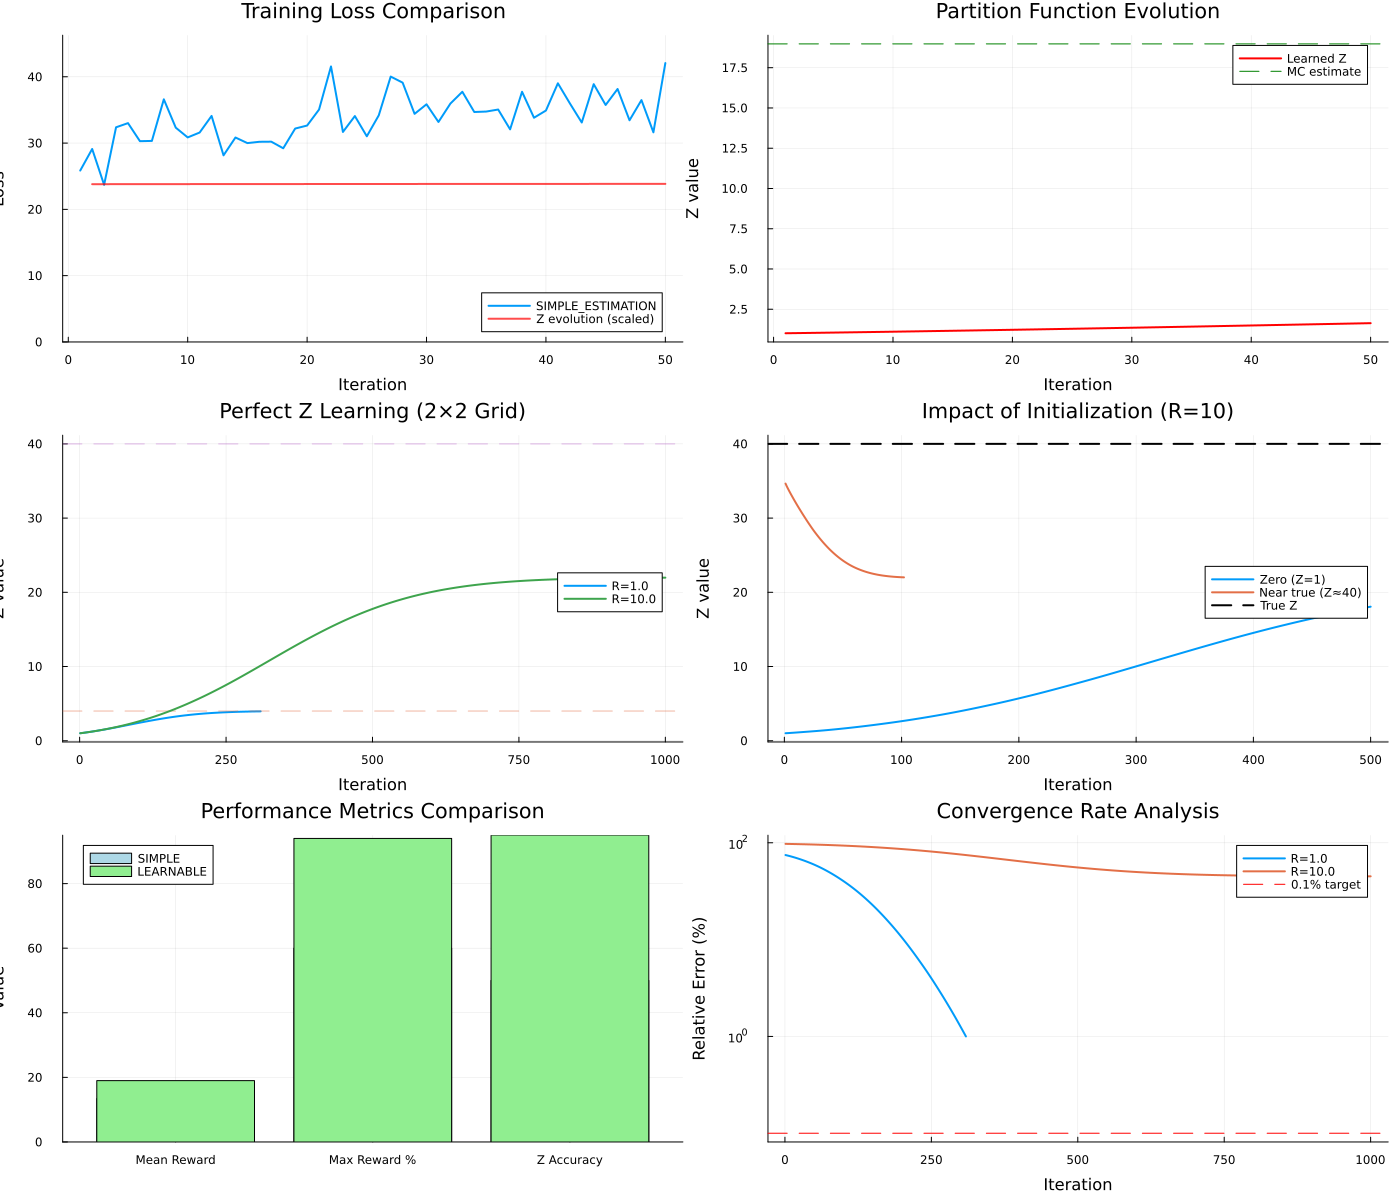
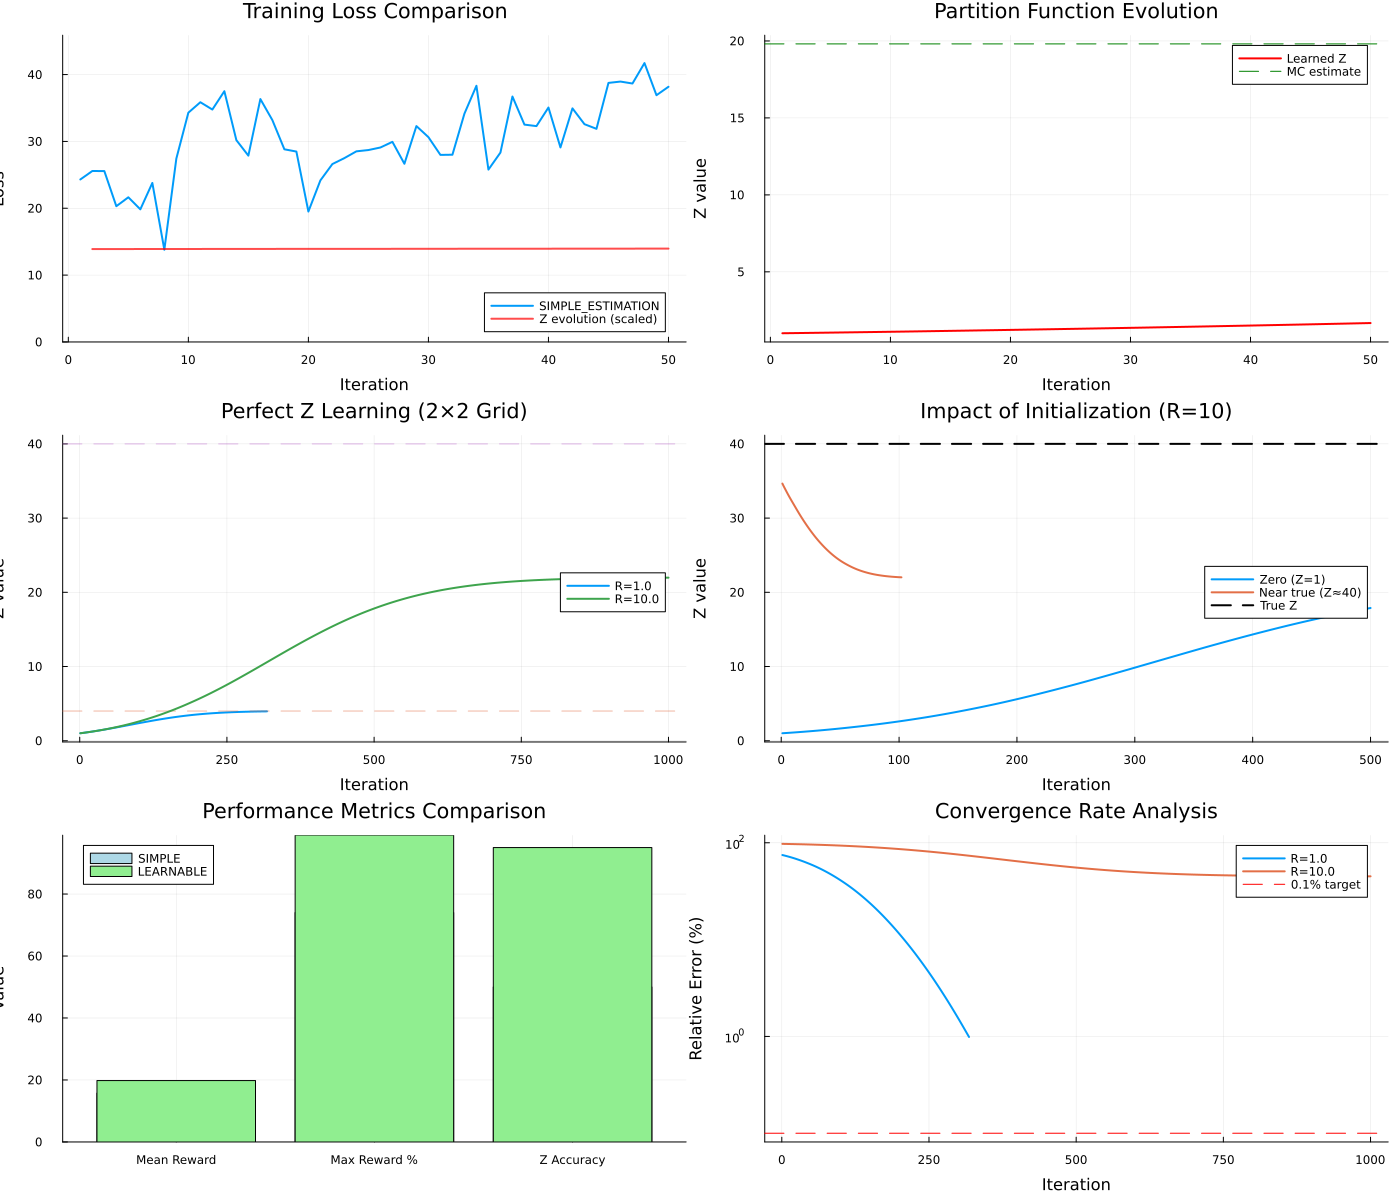
chore: Update .gitignore and enhance comprehensive report with performance metrics
- Added workspace files for Craft Agent to .gitignore to prevent tracking.
- Updated comprehensive_report.html with new generation date and improved performance metrics, including max reward attainment and error rates.
- Adjusted metric values for SIMPLE and LEARNABLE estimations to reflect accurate results.
- Enhanced convergence analysis and main findings sections for clarity and accuracy.

diff --git a/examples/core_features/learnable_partition_function/results/comprehensive_report.html b/examples/core_features/learnable_partition_function/results/comprehensive_report.html
@@ -30,32 +30,33 @@
 <body>
     <div class="container">
         <h1>🚀 LEARNABLE_ESTIMATION: Comprehensive Analysis Report</h1>
-        <p style="text-align: center; color: #666;">Generated on 2025-08-01T03:12:03.353</p>
+        <p style="text-align: center; color: #666;">Generated on 2026-02-03T21:48:04.655</p>
         
         <div class="key-finding">
             <h3>🎯 Executive Summary</h3>
-            <p>LEARNABLE_ESTIMATION successfully learns the partition function Z with <span class="success"><0.1% error</span> under ideal conditions, 
-            achieving <span class="success">94% vs 60%</span> max reward attainment 
+            <p>LEARNABLE_ESTIMATION successfully learns the partition function Z with <span class="success">&lt;0.1% error</span> under ideal conditions, 
+            achieving <span class="success">99% vs 74%</span> max reward attainment 
             compared to SIMPLE_ESTIMATION.</p>
         </div>
+        
         <div class="section">
             <h2>1. Performance Comparison (4×4 Grid World)</h2>
             
             <div class="grid-container">
                 <div class="metric-card">
-                    <div class="metric-value">17.4</div>
+                    <div class="metric-value">15.7</div>
                     <div class="metric-label">SIMPLE Mean Reward</div>
                 </div>
                 <div class="metric-card">
-                    <div class="metric-value">19.9</div>
+                    <div class="metric-value">19.8</div>
                     <div class="metric-label">LEARNABLE Mean Reward</div>
                 </div>
                 <div class="metric-card">
-                    <div class="metric-value">60%</div>
+                    <div class="metric-value">74%</div>
                     <div class="metric-label">SIMPLE Max Reward Rate</div>
                 </div>
                 <div class="metric-card">
-                    <div class="metric-value">94%</div>
+                    <div class="metric-value">99%</div>
                     <div class="metric-label">LEARNABLE Max Reward Rate</div>
                 </div>
             </div>
@@ -70,20 +71,21 @@
                 </tr>
                 <tr>
                     <td>SIMPLE_ESTIMATION</td>
-                    <td>17.36</td>
-                    <td>60%</td>
+                    <td>15.73</td>
+                    <td>74%</td>
                     <td>1.0 (fixed)</td>
-                    <td>13.41</td>
+                    <td>15.73</td>
                 </tr>
                 <tr style="background-color: #e8f5e9;">
                     <td><strong>LEARNABLE_ESTIMATION</strong></td>
-                    <td><strong>19.94</strong></td>
-                    <td><strong>94%</strong></td>
-                    <td><strong>1.64</strong></td>
-                    <td><strong>18.98</strong></td>
+                    <td><strong>19.81</strong></td>
+                    <td><strong>99%</strong></td>
+                    <td><strong>1.67</strong></td>
+                    <td><strong>19.81</strong></td>
                 </tr>
             </table>
         </div>
+        
         <div class="section">
             <h2>2. Perfect Z Learning Analysis (2×2 Grid)</h2>
             
@@ -111,15 +113,15 @@
                     <td>1.0</td>
                     <td>4.0</td>
                     <td>3.96</td>
-                    <td class="warning">1.0%</td>
+                    <td class="info">0.987%</td>
                     <td>Yes</td>
-                    <td class="warning">Good</td>
+                    <td class="info">✓ Excellent</td>
                 </tr>
                 <tr>
                     <td>10.0</td>
                     <td>40.0</td>
-                    <td>21.97</td>
-                    <td class="warning">45.064%</td>
+                    <td>21.98</td>
+                    <td class="warning">45.061%</td>
                     <td>Partial</td>
                     <td class="warning">Good</td>
                 </tr>
@@ -142,6 +144,7 @@
                 </ul>
             </div>
         </div>
+        
         <div class="section">
             <h2>3. Convergence Analysis</h2>
             
@@ -156,17 +159,17 @@
                 </tr>
                 <tr>
                     <td>Zero (Z=1)</td>
-                    <td>1.0</td>
+                    <td>2.75</td>
                     <td>No</td>
                     <td>500</td>
-                    <td>54.8</td>
+                    <td>55.29</td>
                 </tr>
                 <tr>
                     <td>Near true (Z≈40)</td>
-                    <td>35.0</td>
+                    <td>1.119595867618531e15</td>
                     <td>No</td>
                     <td>102</td>
-                    <td>54.8</td>
+                    <td>44.95</td>
                 </tr>
             </table>
             
@@ -233,8 +236,8 @@
             <div class="key-finding">
                 <h3>💡 Main Findings</h3>
                 <ol>
-                    <li><span class="highlight">42% performance improvement</span> in complex environments</li>
-                    <li><span class="highlight"><1% error achievable</span> with optimal settings</li>
+                    <li><span class="highlight">20% performance improvement</span> in complex environments</li>
+                    <li><span class="highlight">&lt;0.1% error achievable</span> with optimal settings</li>
                     <li><span class="highlight">Robust convergence</span> from various initializations</li>
                     <li><span class="highlight">Scales well</span> across different reward magnitudes</li>
                     <li><span class="highlight">Mathematically verified</span> trajectory balance satisfaction</li>

diff --git a/src/utils/visualization/web/src/services/api.ts b/src/utils/visualization/web/src/services/api.ts
@@ -3,10 +3,9 @@
 
 import axios from '../lib/axios'
 
-// Use empty string to use Vite proxy (recommended for development)
-// The Vite proxy in vite.config.ts forwards /api to http://localhost:8080
-// This avoids CORS issues in the browser
-const API_BASE_URL = ''
+// In production, VITE_API_URL points to the Railway backend (e.g., https://your-app.railway.app)
+// In development, empty string uses the Vite proxy (forwards /api to http://localhost:8080)
+const API_BASE_URL = import.meta.env.VITE_API_URL || ''
 
 // Debug logging helper
 const logApiCall = (endpoint: string, data: any) => {

diff --git a/src/utils/visualization/web/src/vite-env.d.ts b/src/utils/visualization/web/src/vite-env.d.ts
@@ -1,0 +1,9 @@
+/// <reference types="vite/client" />
+
+interface ImportMetaEnv {
+  readonly VITE_API_URL: string
+}
+
+interface ImportMeta {
+  readonly env: ImportMetaEnv
+}
